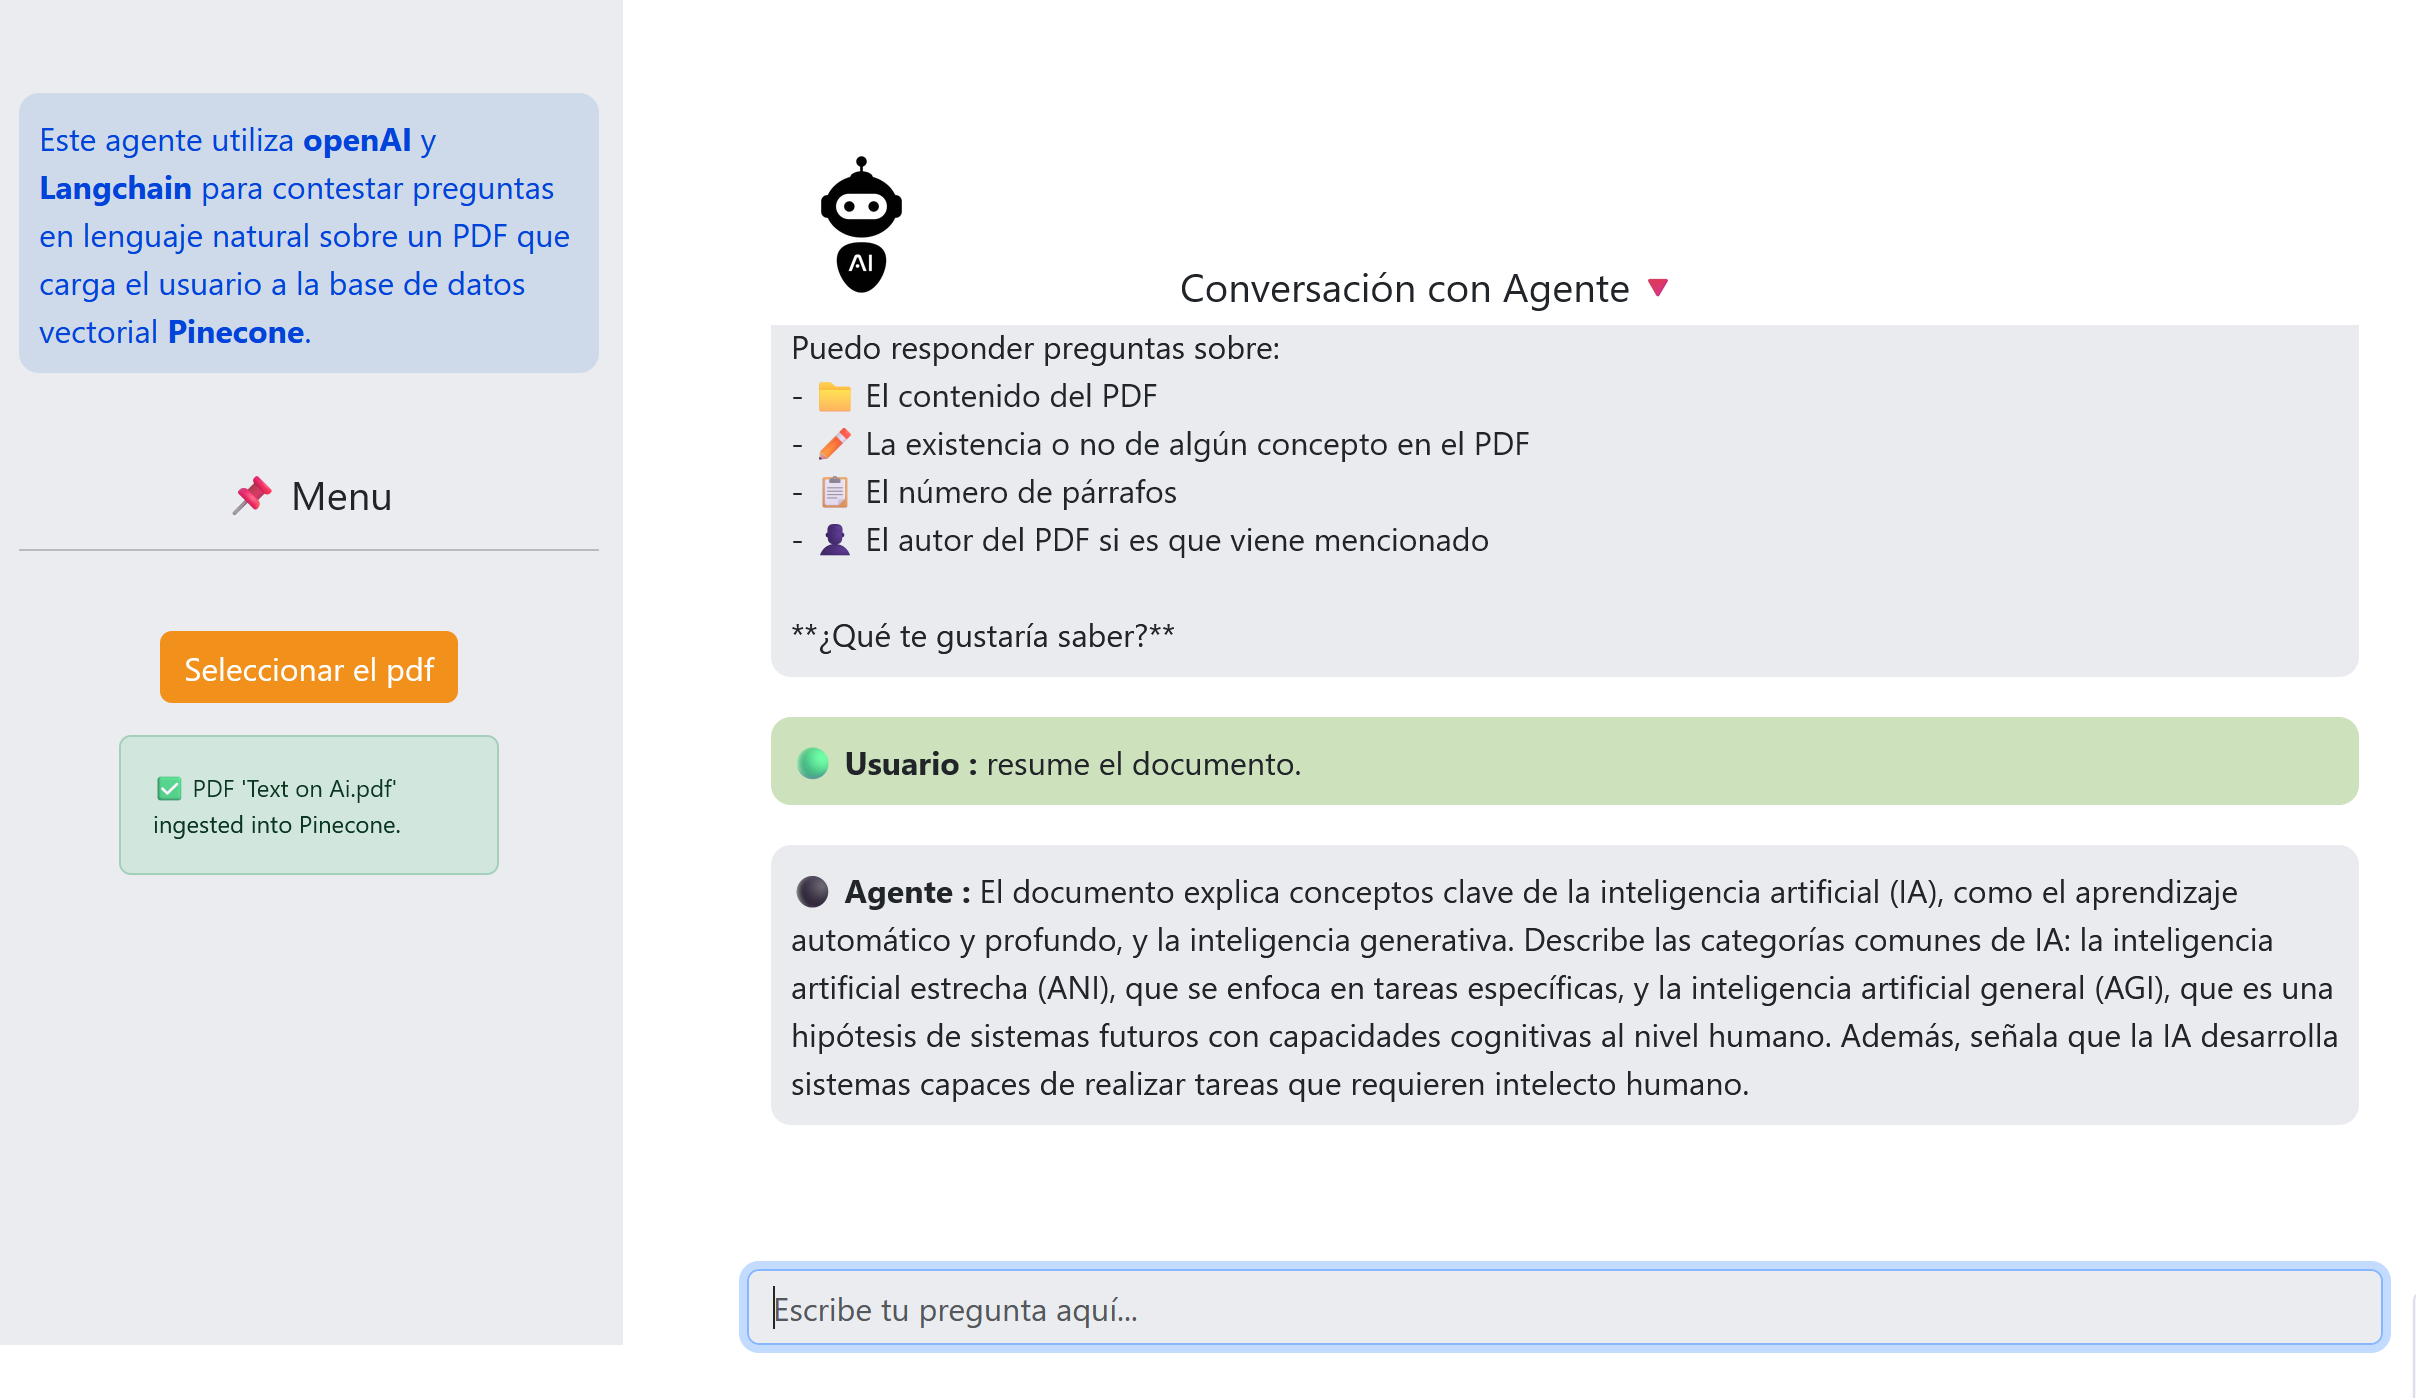
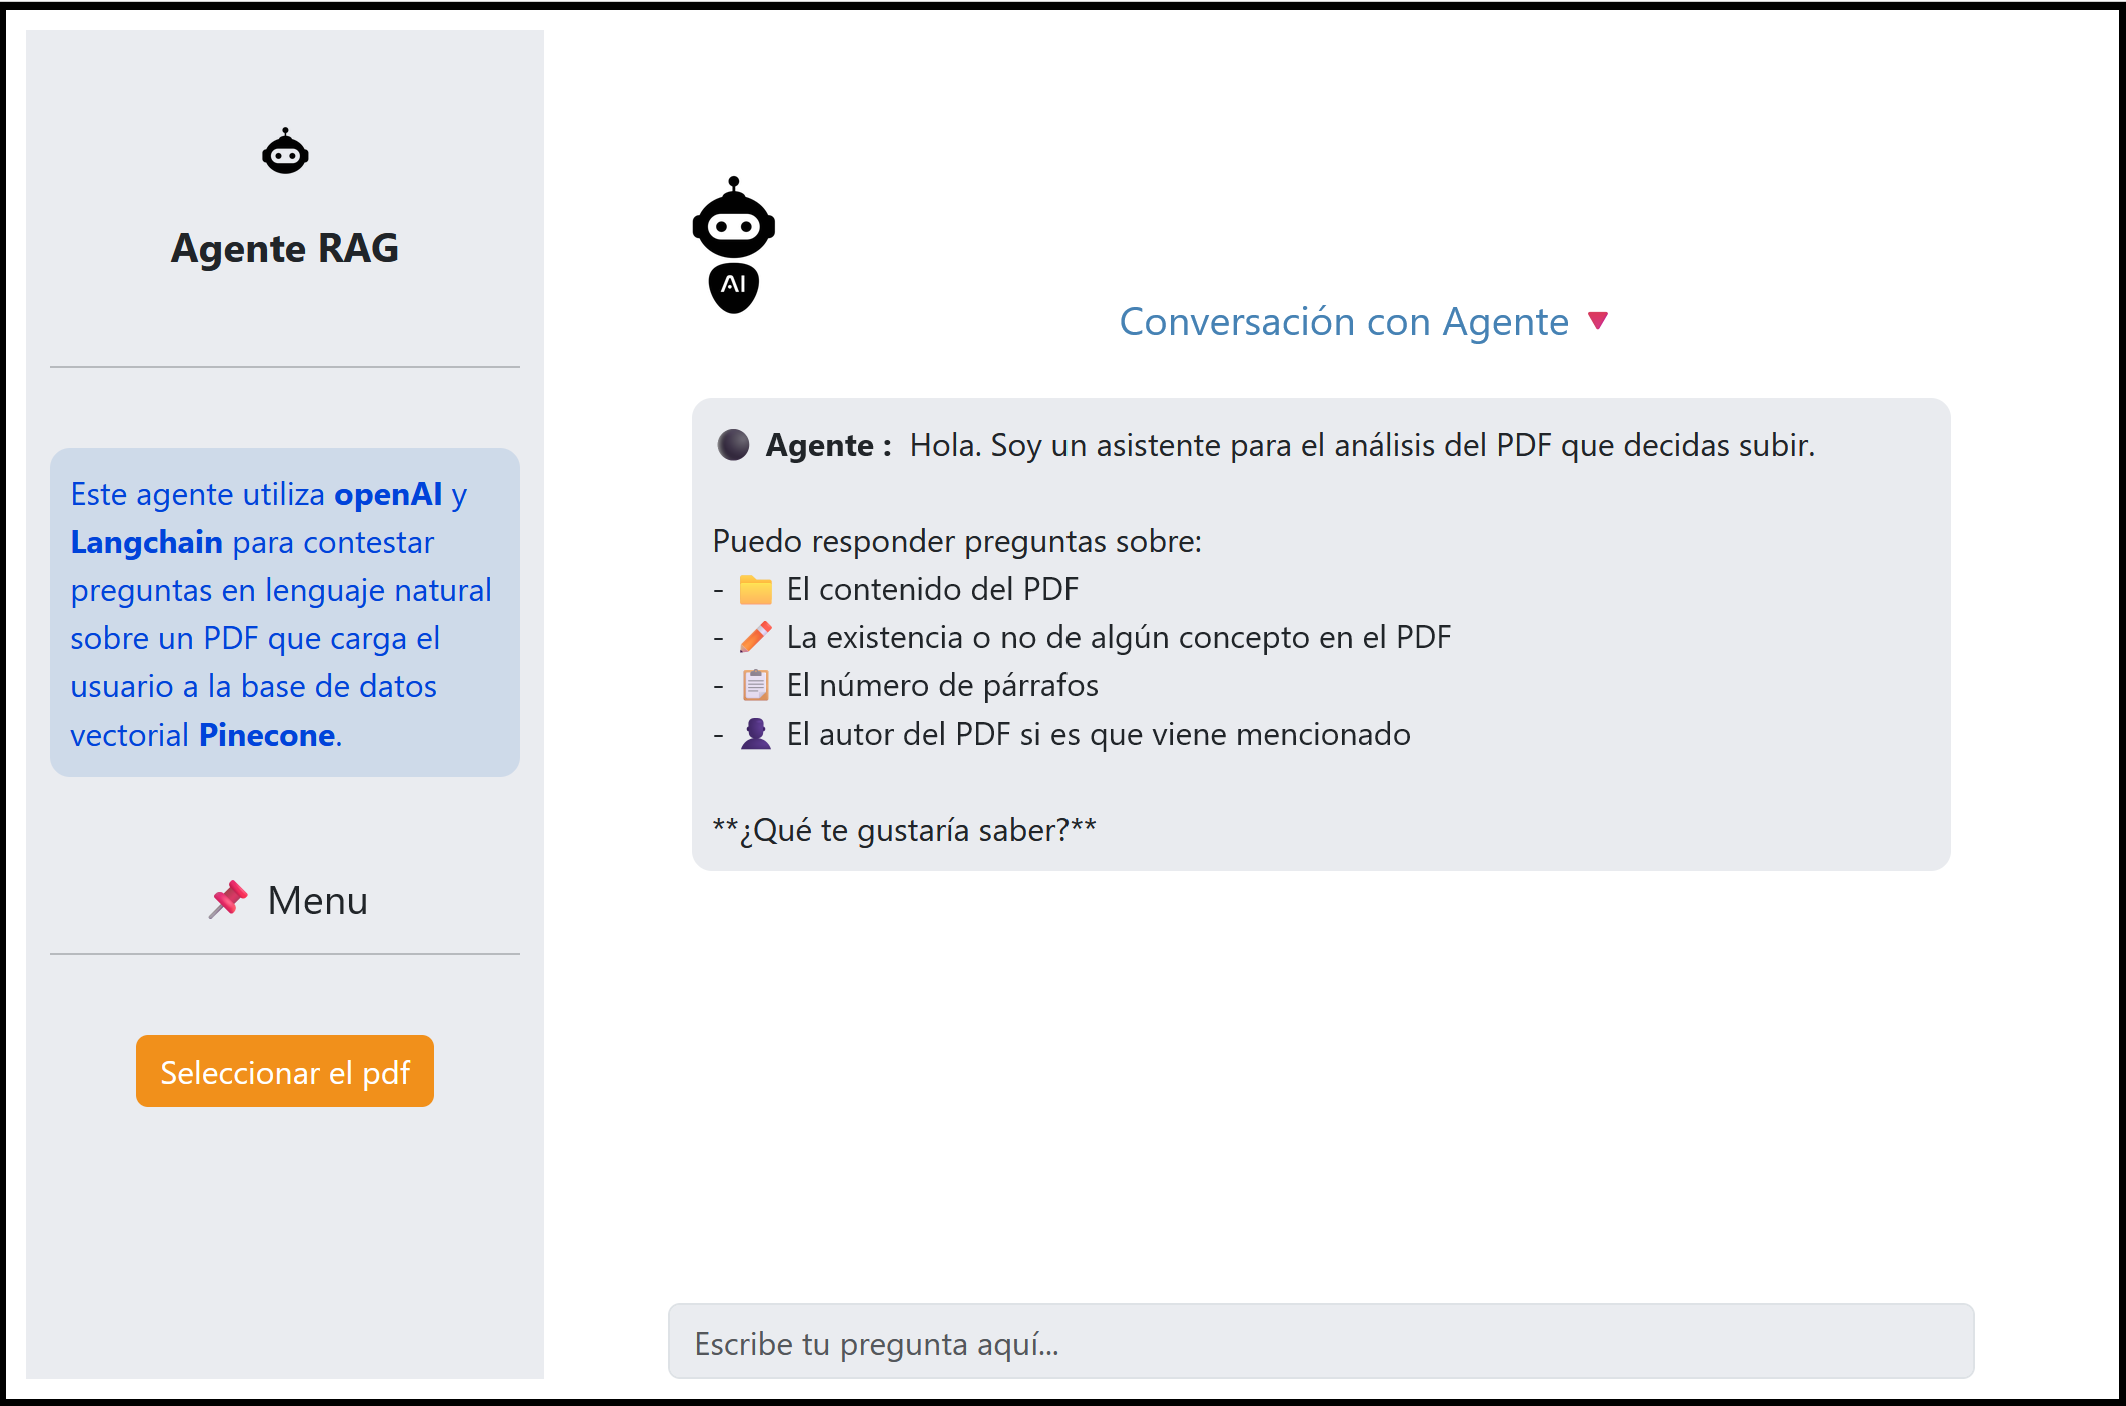
improve interface look

diff --git a/Dash-app.py b/Dash-app.py
@@ -76,6 +76,16 @@ app.layout = dbc.Container(fluid=True, children=[
             html.Br(),
             html.Br(),
 
+            html.Div( [ html.Img(src="assets/robot-head.png", style={"width": "10%"})], 
+                                 style={"display": "flex", 
+                                        "justifyContent": "center", 
+                                        "alignItems": "center"}),
+            html.Br(),                                        
+            html.H1("Agente RAG", style={"fontSize": "20px", 'textAlign': 'center', "fontWeight": "bold"}),
+            html.Br(),
+            html.Hr(),
+            html.Br(),
+
             html.Div(TEXTO_BIENVENIDA, style={"borderRadius":"10px",
                                               "padding": "10px",
                                               "color":"#0043DA", #"fontWeight": "bold", 
@@ -106,12 +116,13 @@ app.layout = dbc.Container(fluid=True, children=[
             html.Br(),
             dbc.Row([
                 dbc.Col(width=3, children=[
-                    html.Div([ html.Img(src="assets/robot.png", style={"width": "50%"})], 
+                    html.Div([ html.Img(src="assets/robot.png", style={"width": "30%"})], 
                                style={"display": "flex", "justifyContent": "left", "alignItems": "left"}),
                 ]),
                 dbc.Col([
                     html.H1("Conversación con Agente🔻", 
-                            style={"fontSize": "20px", 'textAlign': 'left', "marginTop": "60px"}),
+                            style={"fontSize": "20px", "color":"steelblue", 
+                                   'textAlign': 'left', "marginTop": "60px", "marginLeft": "50px"}),
                 ]),
                 #html.Hr(),
             ], style={'marginLeft':'50px', 'marginRight':'50px'}),
@@ -129,7 +140,7 @@ app.layout = dbc.Container(fluid=True, children=[
                 #dbc.Button("Enviar", id="send-btn", style={"backgroundColor":"darkorange", "border": "none"}, className="mt-2")
             ], style={'marginLeft':'50px', 'marginRight':'50px'}),
         ])
-    ])
+    ]) #, style={"border": "2px solid black","padding": "10px", "borderWidth": "100px"}
 ])
 
 